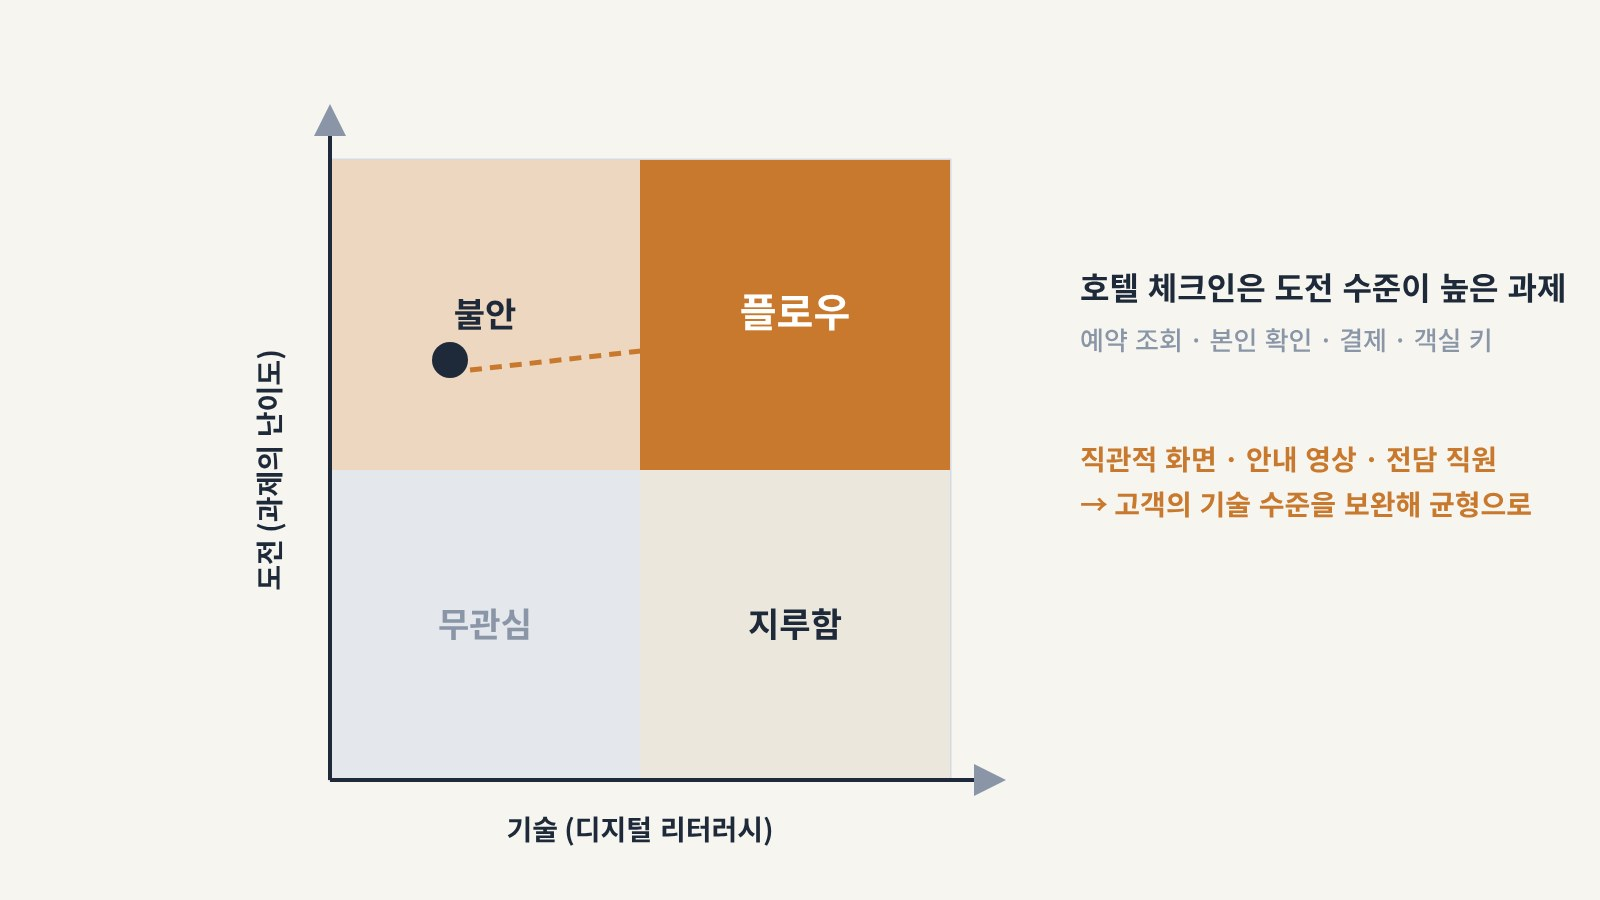
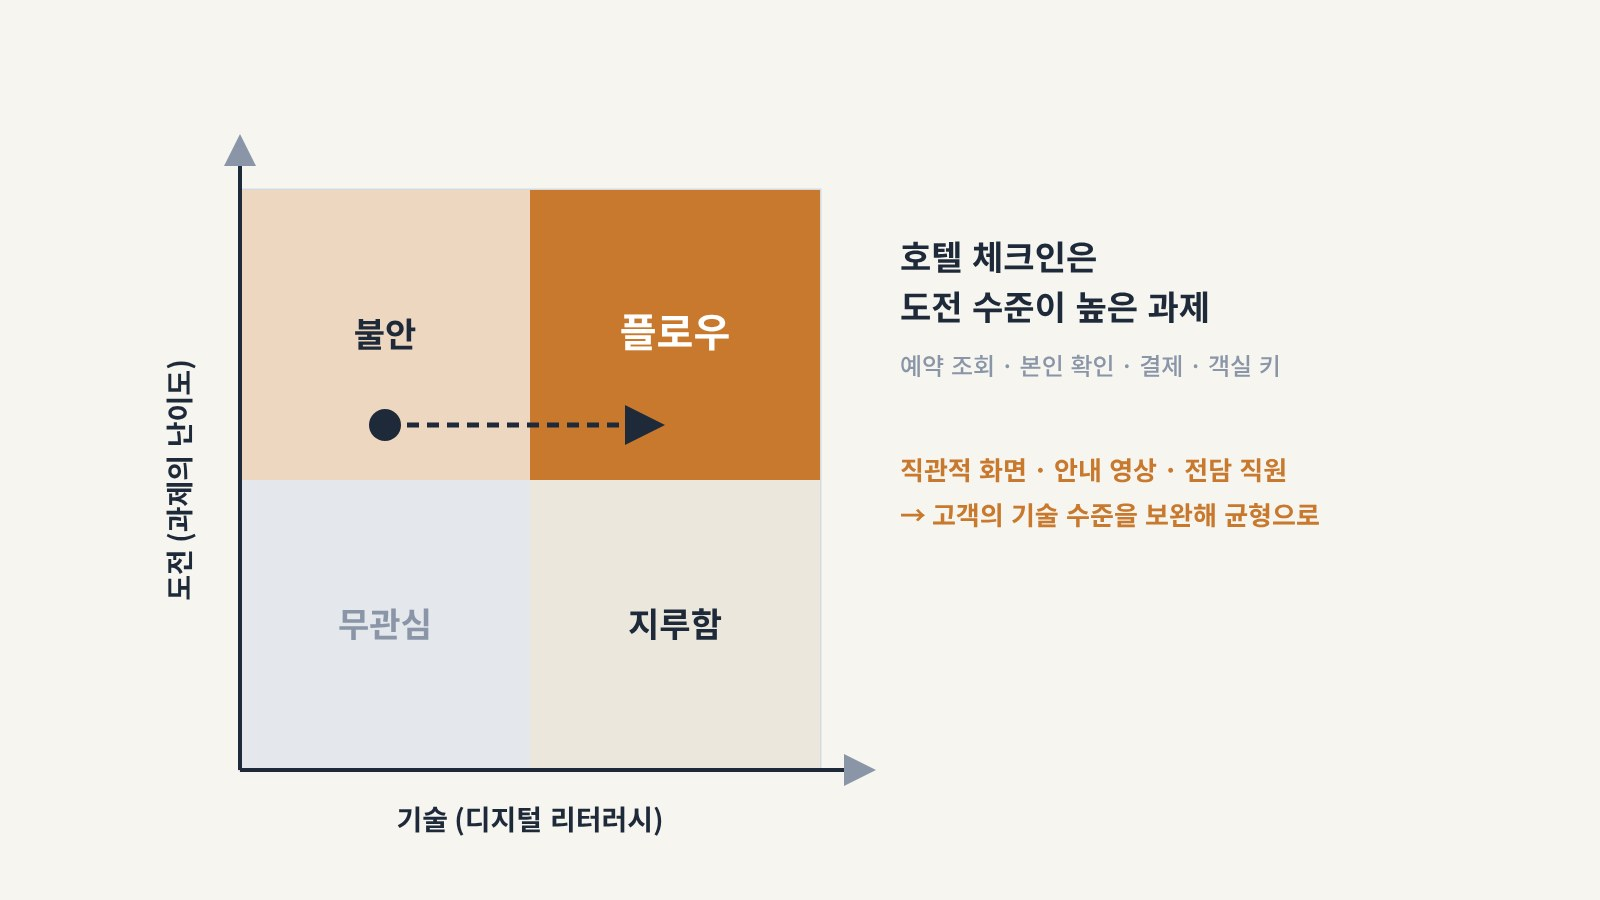
NEW 표시 기간 3일로 조정, 플로우 기사 대표 이미지 잘림 수정
Claude-Session: https://claude.ai/code/session_01GuA5AHQ235NWh93TgZjSNS

diff --git a/scripts/thumbs/make4.py b/scripts/thumbs/make4.py
@@ -9,7 +9,7 @@ os.makedirs(OUT, exist_ok=True)
 NAVY, ORANGE, CREAM, SAND, GRAY, LINE, WHITE = '#1E2A3A', '#C8792D', '#F7F5F0', '#ECE7DD', '#8A96A8', '#D5D9E0', '#FFFFFF'
 FONT = "'Noto Sans CJK KR','Noto Sans KR',sans-serif"
 DEFS = (f'<defs><marker id="ag" markerWidth="8" markerHeight="8" refX="4" refY="4" orient="auto"><path d="M0 0 L8 4 L0 8 Z" fill="{GRAY}"/></marker>'
-        f'<marker id="ao" markerWidth="8" markerHeight="8" refX="4" refY="4" orient="auto"><path d="M0 0 L8 4 L0 8 Z" fill="{ORANGE}"/></marker></defs>')
+        f'<marker id="an2" markerWidth="8" markerHeight="8" refX="4" refY="4" orient="auto"><path d="M0 0 L8 4 L0 8 Z" fill="#1E2A3A"/></marker><marker id="ao" markerWidth="8" markerHeight="8" refX="4" refY="4" orient="auto"><path d="M0 0 L8 4 L0 8 Z" fill="{ORANGE}"/></marker></defs>')
 def frame(inner, bg=CREAM, w=1600, h=900):
     return f'<svg xmlns="http://www.w3.org/2000/svg" width="{w}" height="{h}" viewBox="0 0 {w} {h}" font-family="{FONT}"><rect width="{w}" height="{h}" fill="{bg}"/>{DEFS}{inner}</svg>'
 def t(x, y, s, size=26, fill=NAVY, w=700, anchor='middle'):
@@ -34,15 +34,15 @@ s += t(800, 740, 'SSTQUAL 7가지 구성요인', 28, GRAY, 500)
 imgs['sstqual-seven-dimensions'] = frame(s)
 
 # 2) 4채널 플로우 모델
-ox, oy, L = 330, 780, 620
+ox, oy, L = 240, 770, 580
 s = f'<rect x="{ox}" y="{oy - L}" width="{L}" height="{L}" fill="{WHITE}" stroke="{LINE}" stroke-width="3"/>'
 s += f'<rect x="{ox + L/2}" y="{oy - L}" width="{L/2}" height="{L/2}" fill="{ORANGE}"/>'
 s += f'<rect x="{ox}" y="{oy - L}" width="{L/2}" height="{L/2}" fill="#EED7C0"/><rect x="{ox + L/2}" y="{oy - L/2}" width="{L/2}" height="{L/2}" fill="{SAND}"/><rect x="{ox}" y="{oy - L/2}" width="{L/2}" height="{L/2}" fill="#E4E7EC"/>'
 s += t(ox + 3*L/4, oy - 3*L/4 + 12, '플로우', 40, WHITE) + t(ox + L/4, oy - 3*L/4 + 12, '불안', 34) + t(ox + 3*L/4, oy - L/4 + 12, '지루함', 34) + t(ox + L/4, oy - L/4 + 12, '무관심', 34, GRAY)
 s += f'<path d="M{ox} {oy} L{ox + L + 40} {oy}" stroke="{NAVY}" stroke-width="4" marker-end="url(#ag)"/><path d="M{ox} {oy} L{ox} {oy - L - 40}" stroke="{NAVY}" stroke-width="4" marker-end="url(#ag)"/>'
 s += t(ox + L/2, oy + 60, '기술 (디지털 리터러시)', 28) + f'<text x="{ox - 50}" y="{oy - L/2}" font-size="28" font-weight="700" fill="{NAVY}" text-anchor="middle" transform="rotate(-90 {ox - 50} {oy - L/2})">도전 (과제의 난이도)</text>'
-s += f'<circle cx="{ox + 120}" cy="{oy - 420}" r="18" fill="{NAVY}"/><path d="M{ox + 140} {oy - 410} L{ox + 410} {oy - 440}" stroke="{ORANGE}" stroke-width="5" stroke-dasharray="12 8" marker-end="url(#ao)"/>'
-s += t(1080, 300, '호텔 체크인은 도전 수준이 높은 과제', 32, NAVY, 700, 'start') + t(1080, 350, '예약 조회 · 본인 확인 · 결제 · 객실 키', 26, GRAY, 500, 'start') + t(1080, 470, '직관적 화면 · 안내 영상 · 전담 직원', 28, ORANGE, 700, 'start') + t(1080, 515, '→ 고객의 기술 수준을 보완해 균형으로', 28, ORANGE, 700, 'start')
+s += f'<circle cx="{ox + L/4}" cy="{oy - L/2 - 55}" r="16" fill="{NAVY}"/><path d="M{ox + L/4 + 22} {oy - L/2 - 55} L{ox + 3*L/4 - 30} {oy - L/2 - 55}" stroke="{NAVY}" stroke-width="5" stroke-dasharray="12 8" marker-end="url(#an2)"/>'
+s += t(900, 270, '호텔 체크인은', 34, NAVY, 700, 'start') + t(900, 320, '도전 수준이 높은 과제', 34, NAVY, 700, 'start') + t(900, 375, '예약 조회 · 본인 확인 · 결제 · 객실 키', 24, GRAY, 500, 'start') + t(900, 480, '직관적 화면 · 안내 영상 · 전담 직원', 26, ORANGE, 700, 'start') + t(900, 525, '→ 고객의 기술 수준을 보완해 균형으로', 26, ORANGE, 700, 'start')
 imgs['flow-at-the-kiosk'] = frame(s)
 
 # 3) 점검표: 재이용의 조건 / 몰입의 조건
